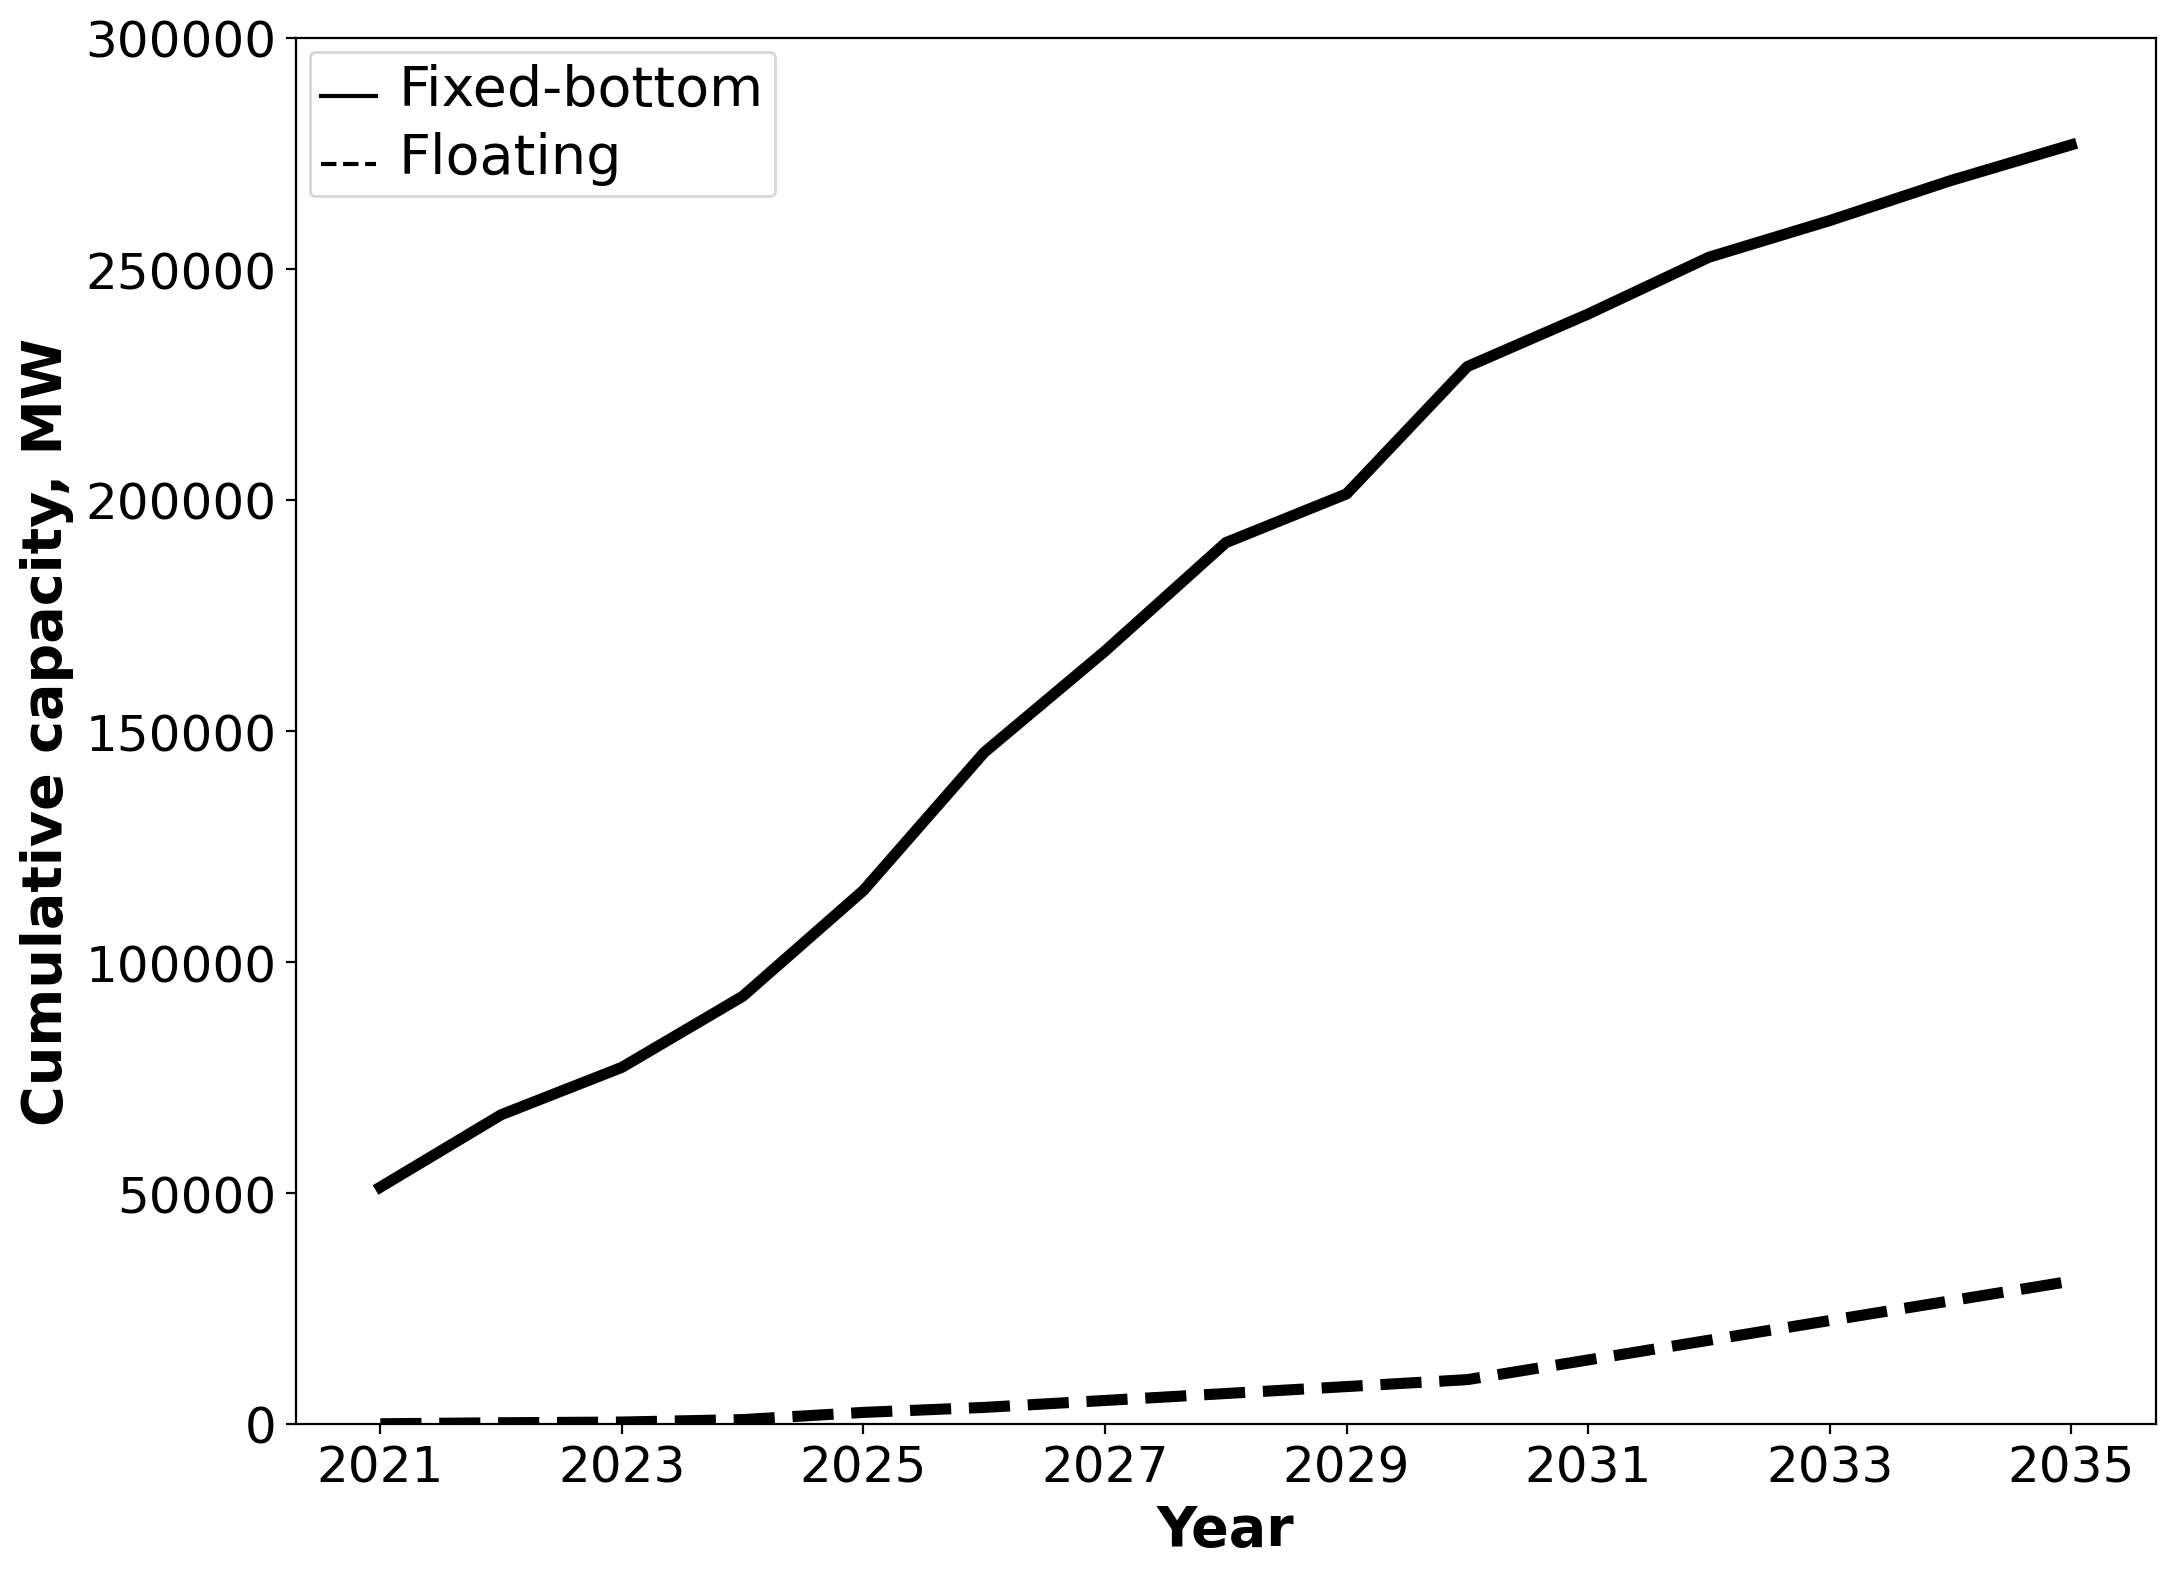
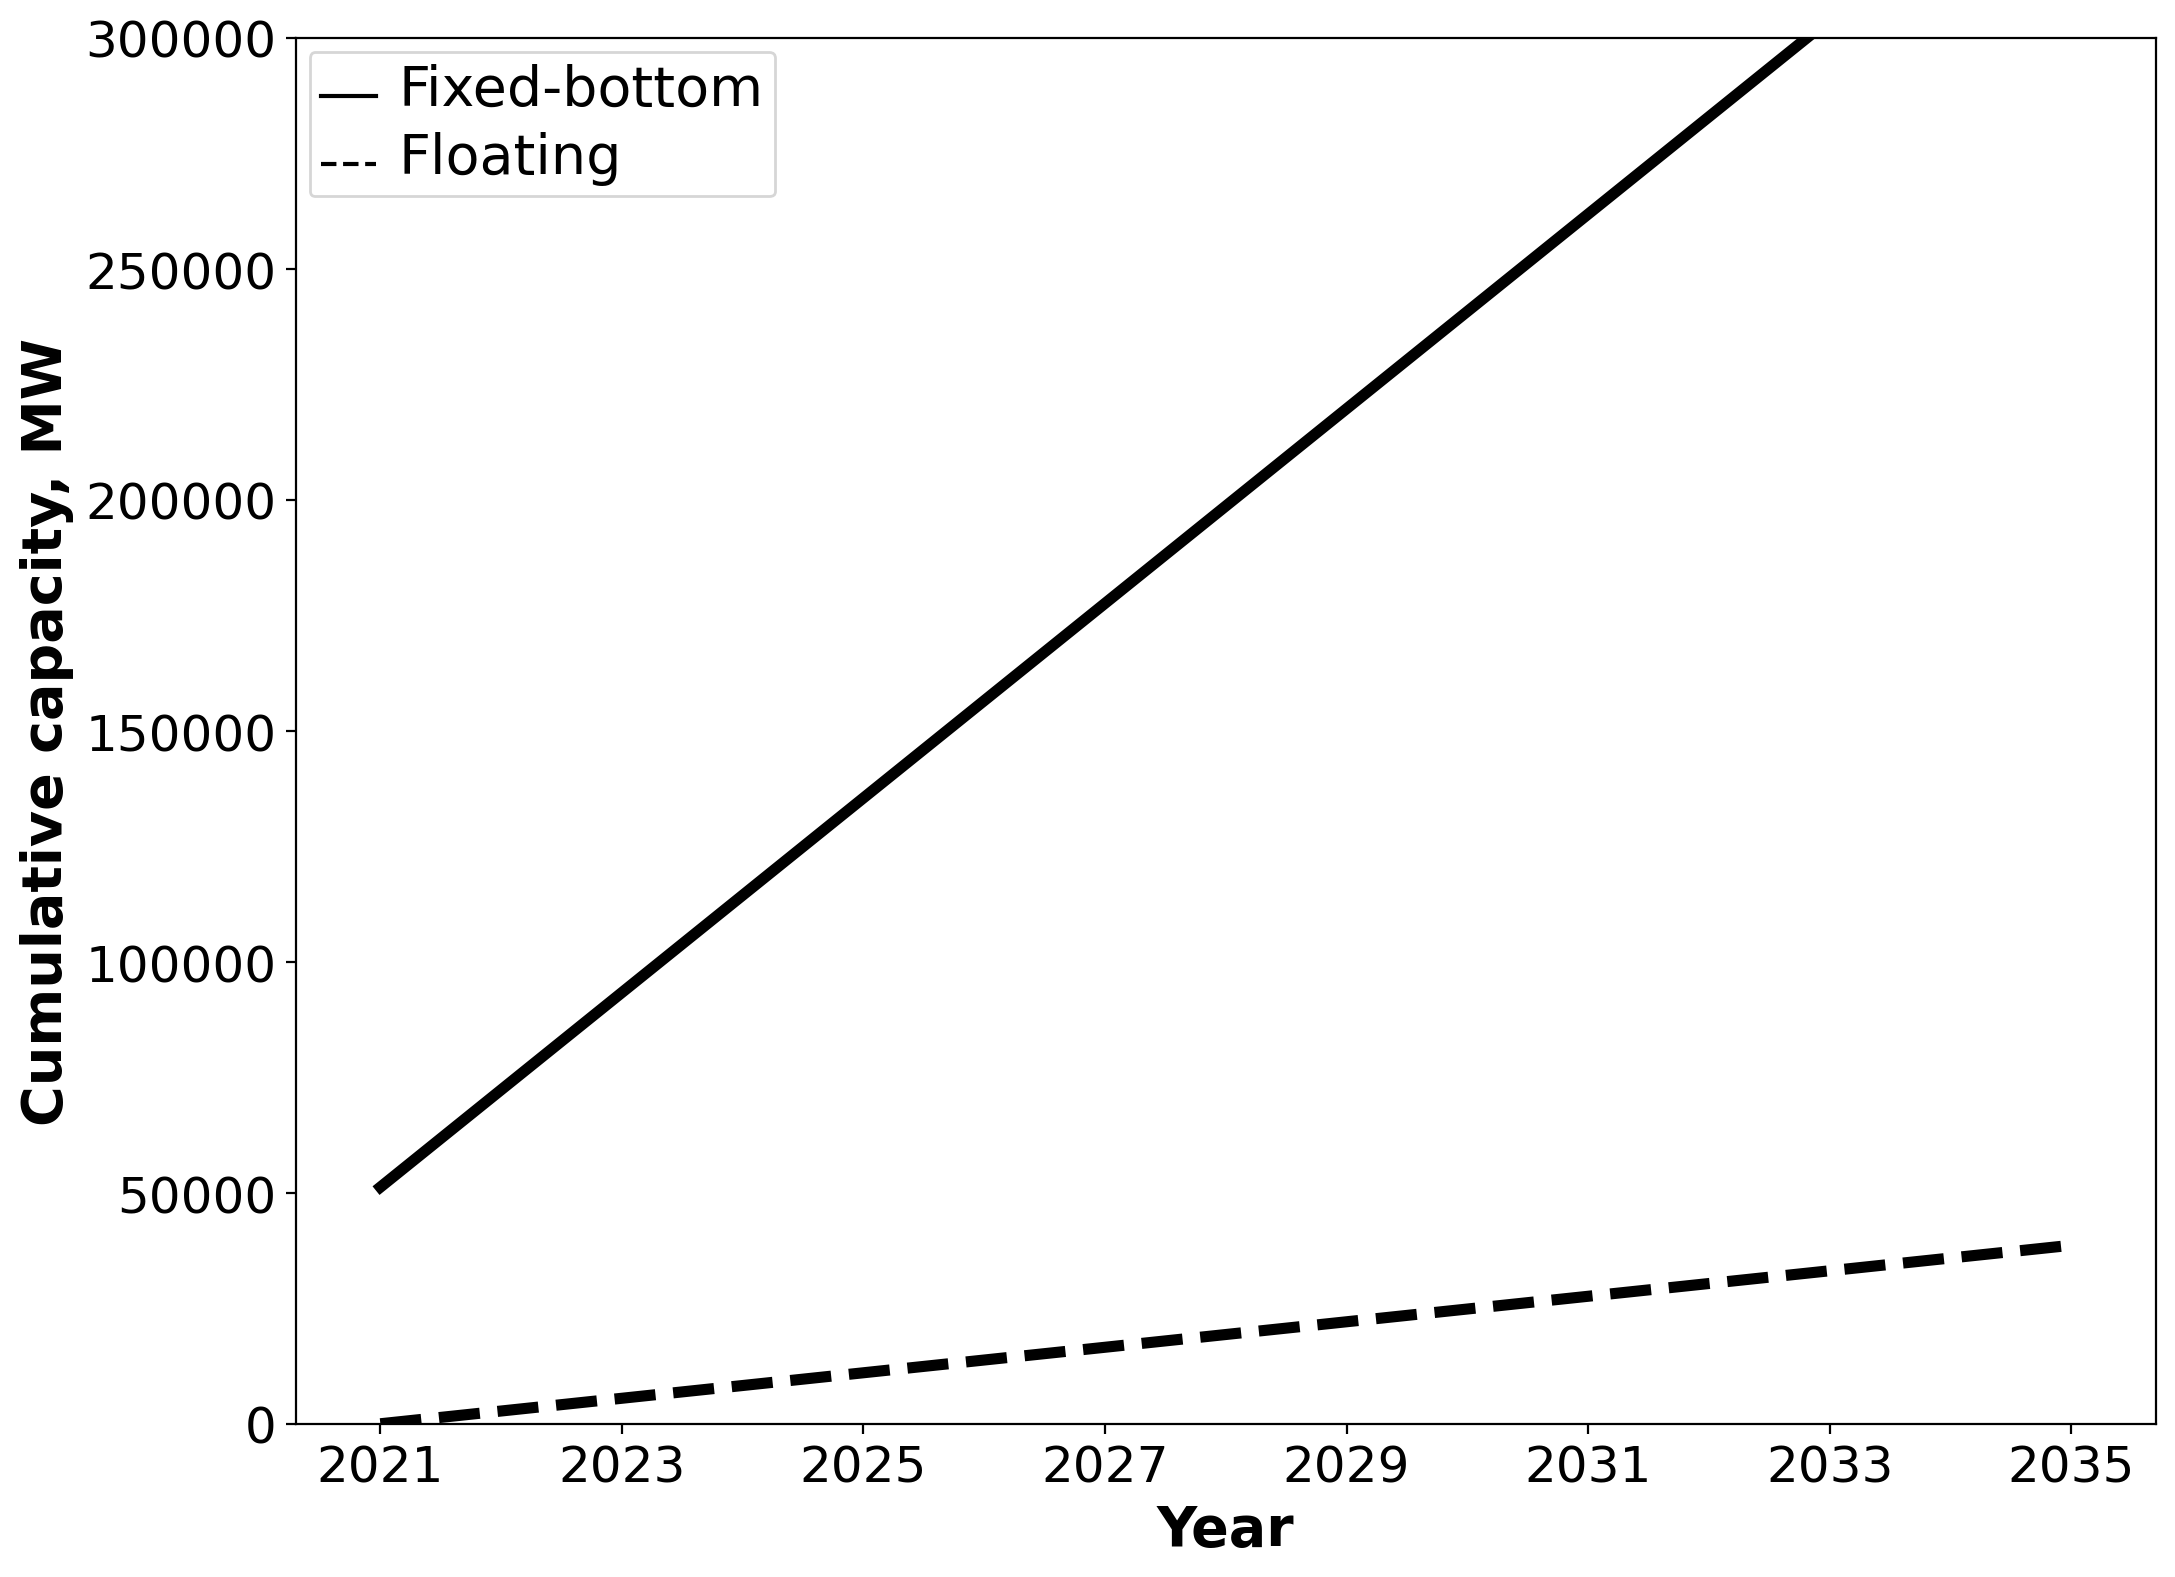
Added low/high deployment rates. Added sensitivity factor for Opex and NCF.  Created sensitivity plots

diff --git a/analysis/orbit_comparison.py b/analysis/orbit_comparison.py
@@ -239,7 +239,7 @@ def _zip_into_years(start, stop, years):
     return {yr: val for yr, val in zip(years, np.linspace(start, stop, len(years)))}
 
 
-def run_orbit_configs(sites, b0, upcoming, years, initial_capex=None, fixfloat='fixed'):
+def run_orbit_configs(sites, b0, upcoming, years, opex_scale, ncf_scale, initial_capex=None, fixfloat='fixed'):
     """"""
 
     orbit_outputs = []
@@ -291,8 +291,8 @@ def run_orbit_configs(sites, b0, upcoming, years, initial_capex=None, fixfloat='
             site_data.loc[yr, "Regression"] = c * upcoming[yr] ** b0
 
         # Define Opex, NCF, FCR arrays
-        OPEX = (opex_i, opex_f)
-        NCF = (ncf_i, ncf_f)
+        OPEX = (opex_i, opex_scale * opex_f)
+        NCF = (ncf_i, ncf_scale * ncf_f)
         FCR = (fcr_i, fcr_f)
         opex = {yr: val for yr, val in zip(years, np.linspace(*OPEX, len(years)))}
         ncf = {yr: val for yr, val in zip(years, np.linspace(*NCF, len(years)))}
@@ -312,7 +312,7 @@ def run_orbit_configs(sites, b0, upcoming, years, initial_capex=None, fixfloat='
     return combined_outputs
 
 def regression_and_plot(FORECAST, PROJECTS, FILTERS, TO_AGGREGATE, TO_DROP, PREDICTORS, ORBIT_SITES,
-                        fixfloat='fixed'):
+                        fixfloat='fixed', opex_scale=1, ncf_scale=1):
     """Run all subroutines to create regression fit and all plots"""
     # Forecast
     years, linear_forecast = linearize_forecast(FORECAST)
@@ -334,8 +334,8 @@ def regression_and_plot(FORECAST, PROJECTS, FILTERS, TO_AGGREGATE, TO_DROP, PRED
         }
 
     # ORBIT Results
-    combined_outputs = run_orbit_configs(ORBIT_SITES, b0, upcoming_capacity, years, fixfloat=fixfloat)
-    print(upcoming_capacity, combined_outputs)
+    combined_outputs = run_orbit_configs(ORBIT_SITES, b0, upcoming_capacity, years,
+                                         opex_scale, ncf_scale, fixfloat=fixfloat)
     initial_capex_range = combined_outputs.loc[2021, 'ORBIT'].values
     avg_start = pd.pivot_table(combined_outputs.reset_index(), values='ORBIT', index='index').iloc[0].values[0]
     std_start =  \
@@ -345,13 +345,15 @@ def regression_and_plot(FORECAST, PROJECTS, FILTERS, TO_AGGREGATE, TO_DROP, PRED
 
     # Bounds for faster/slower learning rate
     combined_outputs_max_conservative = run_orbit_configs(ORBIT_SITES, b0 + bse, upcoming_capacity, years,
-                                                      initial_capex=avg_start + std_start,
+                                                      opex_scale, ncf_scale, initial_capex=avg_start + std_start,
                                                       fixfloat=fixfloat)
     combined_outputs_min_aggressive = run_orbit_configs(ORBIT_SITES, b0 - bse, upcoming_capacity, years,
-                                                    initial_capex=avg_start - std_start,
+                                                    opex_scale, ncf_scale, initial_capex=avg_start - std_start,
                                                     fixfloat=fixfloat)
-    combined_outputs_avg_conservative = run_orbit_configs(ORBIT_SITES, b0 + bse, upcoming_capacity, years, fixfloat=fixfloat)
-    combined_outputs_avg_aggressive = run_orbit_configs(ORBIT_SITES, b0 - bse, upcoming_capacity, years, fixfloat=fixfloat)
+    combined_outputs_avg_conservative = run_orbit_configs(ORBIT_SITES, b0 + bse, upcoming_capacity, years,
+                                                          opex_scale, ncf_scale, fixfloat=fixfloat)
+    combined_outputs_avg_aggressive = run_orbit_configs(ORBIT_SITES, b0 - bse, upcoming_capacity, years,
+                                                        opex_scale, ncf_scale, fixfloat=fixfloat)
 
     # Capex
     avg_capex = np.array(pd.pivot_table(combined_outputs.reset_index(),
@@ -368,12 +370,22 @@ def regression_and_plot(FORECAST, PROJECTS, FILTERS, TO_AGGREGATE, TO_DROP, PRED
     min_capex_aggressive = \
         np.array(pd.pivot_table(combined_outputs_min_aggressive.reset_index(),
                                 values='Regression', index='index', aggfunc=min).loc[:,'Regression'])
+    # print('Avg', avg_capex)
+    # print('Avg cons', avg_capex_conservative)
+    # print('Avg agg', avg_capex_aggressive)
+    # print('Max cons', max_capex_conservative)
+    # print('Min agg', min_capex_aggressive)
+
     # LCOE
     avg_lcoe = np.array(pd.pivot_table(combined_outputs.reset_index(), values='LCOE', index='index').loc[:,'LCOE'])
     max_lcoe_conservative = np.array(pd.pivot_table(combined_outputs_max_conservative.reset_index(),
                                                     values='LCOE', index='index', aggfunc=max).loc[:,'LCOE'])
     min_lcoe_aggressive = np.array(pd.pivot_table(combined_outputs_min_aggressive.reset_index(),
                                                   values='LCOE', index='index', aggfunc=min).loc[:,'LCOE'])
+
+    # print('Avg', avg_lcoe)
+    # print('Max cons', max_lcoe_conservative)
+    # print('Min agg', min_lcoe_aggressive)
     ### Plotting
     # Forecast
     fname_capex = 'results/' + fixfloat + '_capex_forecast.png'
@@ -422,21 +434,12 @@ def regression_and_plot(FORECAST, PROJECTS, FILTERS, TO_AGGREGATE, TO_DROP, PRED
 if __name__ == "__main__":
 
     # Fixed bottom
-    regression_and_plot(FORECAST_FIXED, PROJECTS, FILTERS, TO_AGGREGATE, TO_DROP, FIXED_PREDICTORS, ORBIT_FIXED_SITES)
+    regression_and_plot(FORECAST_FIXED, PROJECTS, FILTERS, TO_AGGREGATE, TO_DROP, FIXED_PREDICTORS, ORBIT_FIXED_SITES,
+                        opex_scale=1, ncf_scale=1)
 
     # Floating
-    # float_phases = ['ArraySystemDesign',
-    #                 'MooringSystemDesign',
-    #                 'ExportSystemDesign',
-    #                 'SemiSubmersibleDesign',
-    #                 'OffshoreSubstationDesign',
-    #                 'ArrayCableInstallation',
-    #                 'ExportCableInstallation',
-    #                 'MooringSystemInstallation',
-    #                 'MooredSubInstallation',]
-    # pp.pprint(ProjectManager.compile_input_dict(float_phases))
     regression_and_plot(FORECAST_FLOATING, PROJECTS, FILTERS, TO_AGGREGATE, TO_DROP, FLOAT_PREDICTORS, ORBIT_FLOATING_SITES,
-                        fixfloat='floating')
+                        fixfloat='floating', opex_scale=1, ncf_scale=1)
 
 
 
